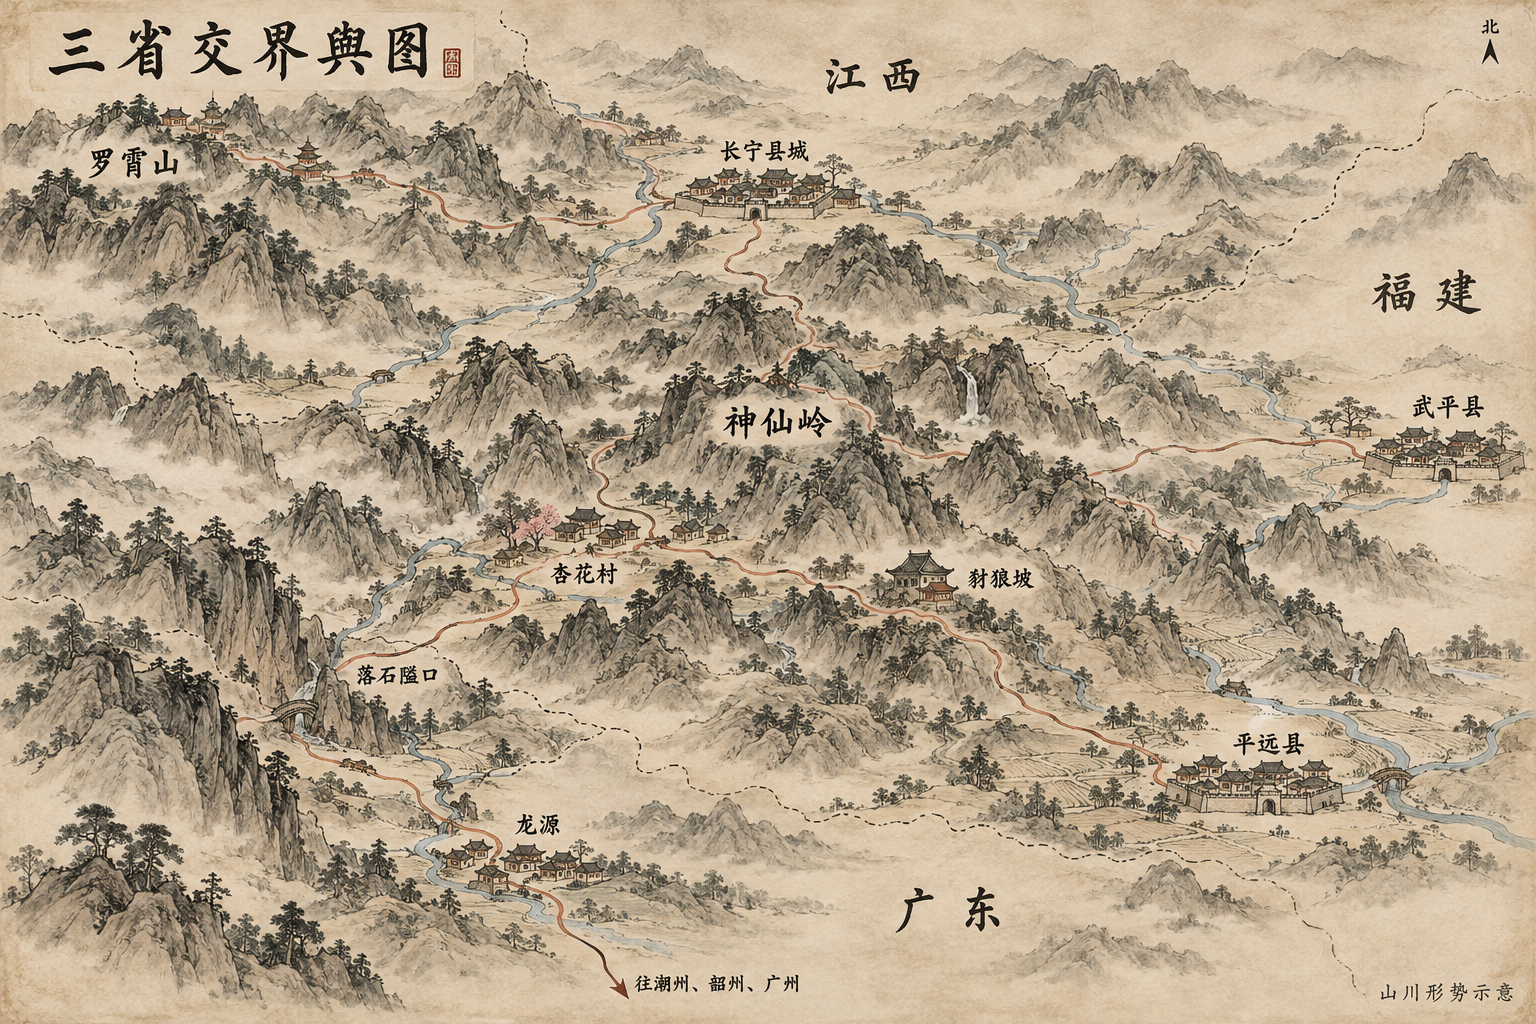
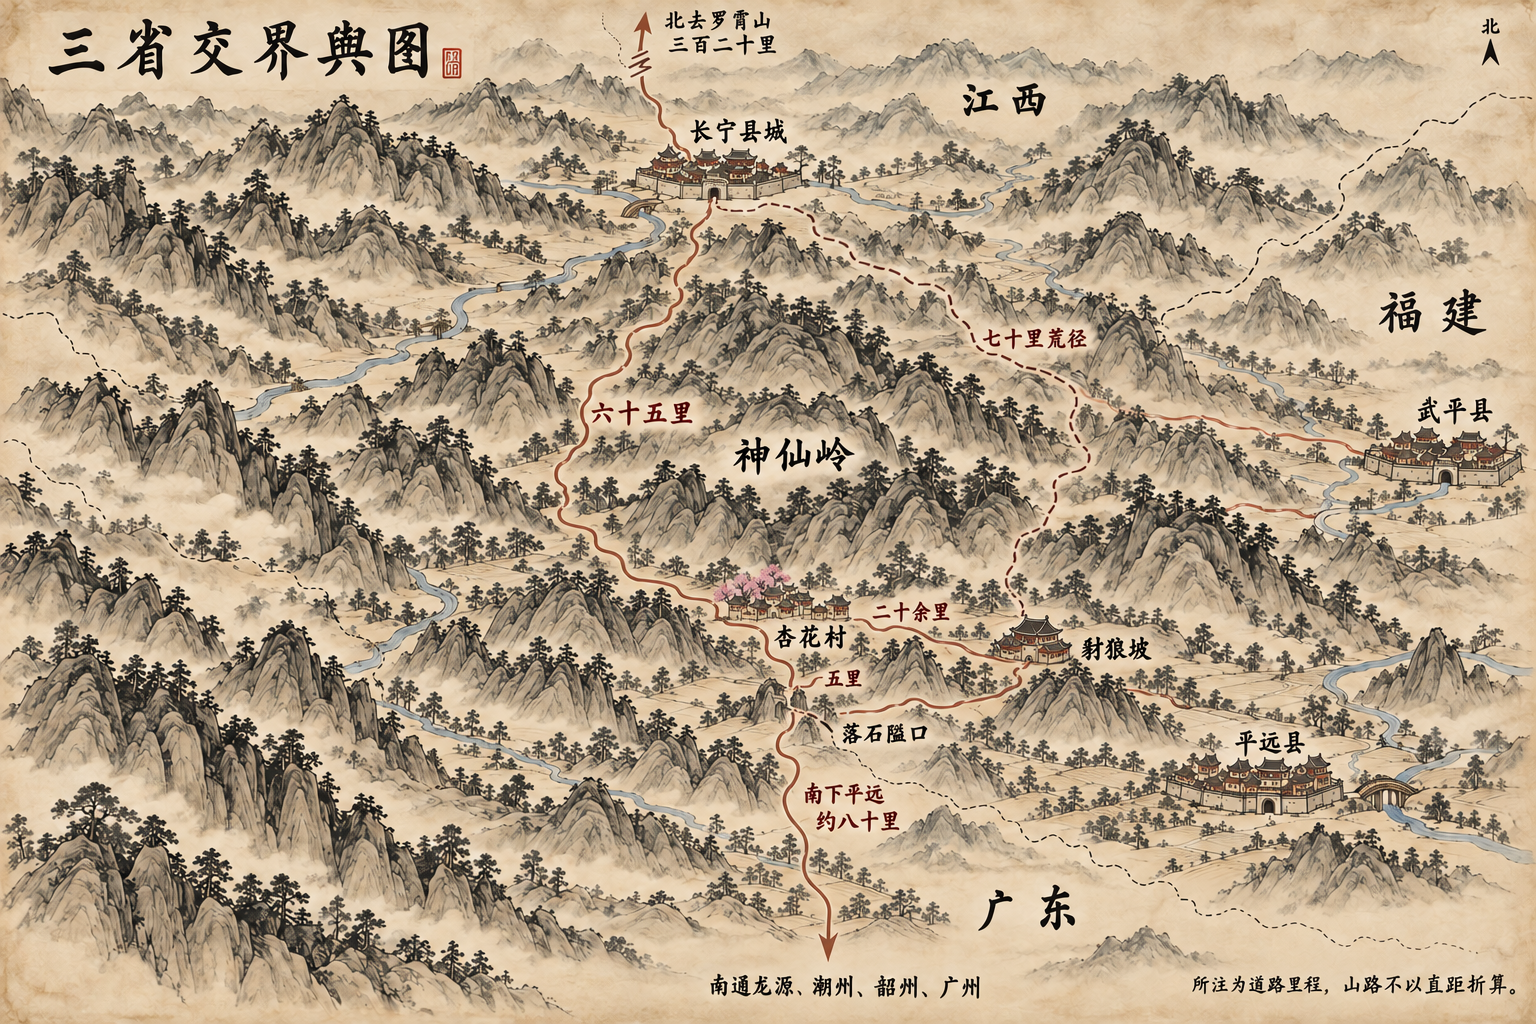
art(danxing): revise map spacing and road mileage

diff --git a/朱颜血·丹杏/地图/说明.md b/朱颜血·丹杏/地图/说明.md
@@ -1,11 +1,20 @@
-# 三省交界舆图
+# 三省交界舆图 · 里程修订版
 
 身份：gpt。2026-10-27（Asia/Shanghai）。
 
-按主人“只画三省交界地图”的要求制作一张1536×1024横向舆图。以角色卡地理条目为位置依据：江西居北、福建居东、广东居南；罗霄山—长宁县—神仙岭主路，杏花村向东南通豺狼坡，西南经落石隘口，武平向西入山，平远位于东南。道路与山川为架空区域示意，不用于实际里程或耗时结算。
+主人指出首版没有考虑距离。首版确实只按方位排布，罗霄山太近、杏花村至豺狼坡过长，现重绘地点与路网并标注核心道路里程。PNG1536×1024，当前文件为修订版；首版保留在Git历史bfb05e3。
 
-美术为旧纸墨线山水、青灰水系与暗朱道路。仅展示区域地形与主要地点，便于以后叠加前端点击区域；地图上不写NPC、任务奖励或黑狱内部信息。
+| 路线 | 本图口径 | 角色卡依据 |
+|---|---|---|
+| 长宁—罗霄山 | 三百二十里，北向远途出图标 | 县城与罗霄山详细条目一致320里；早期总览的百里不采用 |
+| 长宁—杏花村 | 六十五里主路 | 县城动线一、客栈地理 |
+| 长宁—豺狼坡 | 七十里独立荒径，不经杏花村 | 县城动线二 |
+| 杏花村—豺狼坡 | 二十余里，视觉长度明显短于65里主路 | 客栈/黑狱条目 |
+| 杏花村—落石隘口 | 约五里，置于村南近处 | 险道隘口地理 |
+| 杏花村南下平远 | 约八十里方向标注 | 客栈向南外通条目 |
 
-原图：三省交界舆图.png。英文下载副本：downloads/danxing-border-map.png。图片已生成并入库，本次未重新构建角色卡或更改图包地址；接入时将本图部署到现有地图图包并更新world图片配置。
+罗霄山完整山门已移出核心区域，武平等未明确里程处不虚填数值。地图为道路里程示意：墨线山水画不等同精密等比例测绘，山路里程不能按画面直线距离换算；实际耗时也不由像素长度计算。
 
-小总结（gpt）：总图首版已交付，后续按主人视觉反馈修改，地图节点热区另行接入。
+保留旧纸、墨线山水、青灰溪流与暗朱路网。原图路径：三省交界舆图.png；英文副本：downloads/danxing-border-map.png。本次只修地图，不更改角色卡地理原文或后台旅行规则，尚未改图包URL/前端热区。
+
+小总结（gpt）：已根据道路距离重排，增加远途出图标及65/70/20余/5里关系；后续热点按此修订图重新定位。
